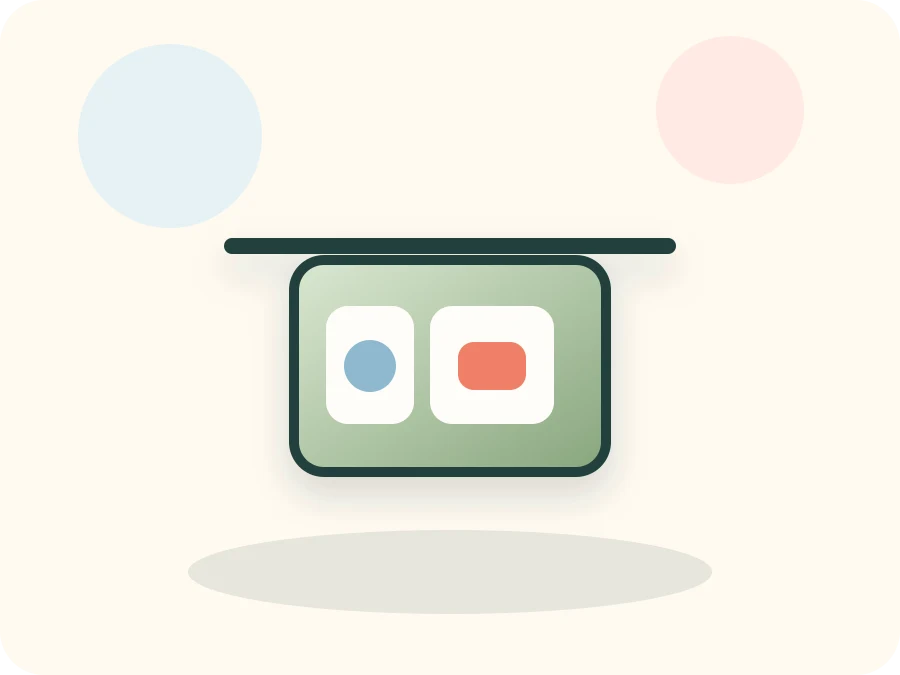
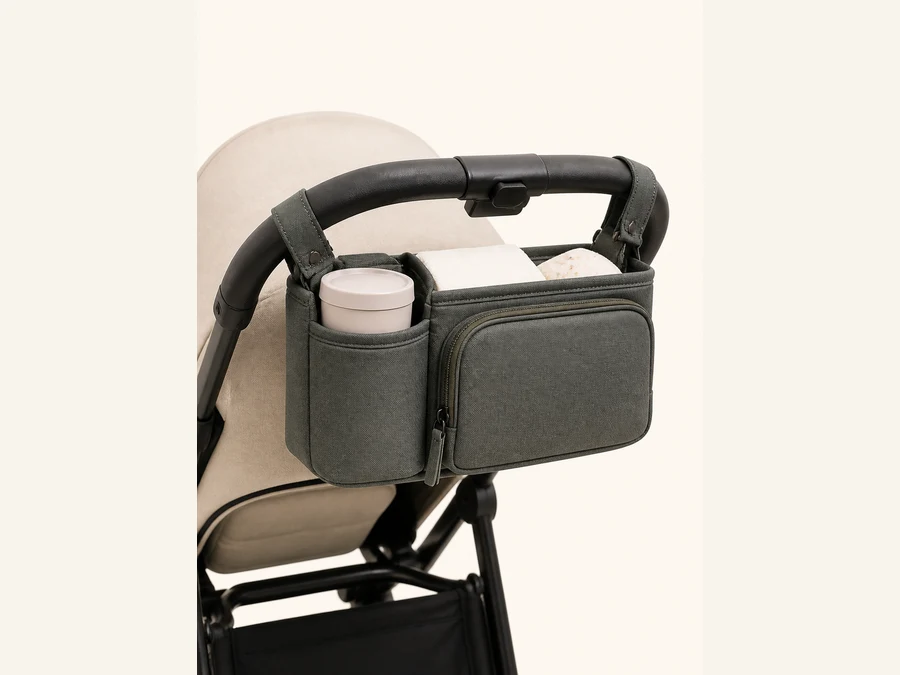
Repair reisen mit kind affiliate products

diff --git a/src/data/travelProducts.ts b/src/data/travelProducts.ts
@@ -147,7 +147,7 @@ export const travelProducts: TravelProduct[] = [
     affiliateUrl: 'https://www.amazon.de/dp/B08T7VKR2R?tag=epic05e-21',
     affiliateStatus: 'ready',
     buttonText: 'Bei Amazon ansehen',
-    image: '/travel-product-images/wickelrucksack-reise-handgepaeck.webp',
+    image: '/travel-product-images/wickelrucksack-handgepaeck.webp',
     imageAlt: 'Wickelrucksack für Reise und Handgepäck',
     ratingText: 'Keine Amazon-Bewertung angezeigt'
   },
@@ -354,10 +354,10 @@ export const travelProducts: TravelProduct[] = [
     benefits: ['Ruhigere Reisezeit', 'Faltbare Modelle sparen Platz', 'Gut für Offline-Unterhaltung'],
     bestFor: 'Flugzeug, Bahn, Auto und Hotelzimmer',
     priceRange: 'Budget bis Mittelklasse',
-    affiliateUrl: AMAZON_AFFILIATE_PLACEHOLDER,
-    affiliateStatus: 'placeholder',
-    buttonText: 'Amazon-Link folgt',
-    image: '/travel-product-images/kopfhoerer-kinder-lautstaerkebegrenzung.webp',
+    affiliateUrl: 'https://www.amazon.de/dp/B08T6H648Z?tag=epic05e-21',
+    affiliateStatus: 'ready',
+    buttonText: 'Bei Amazon ansehen',
+    image: '/travel-product-images/kinderkopfhoerer-lautstaerkebegrenzung.webp',
     imageAlt: 'Kinderkopfhörer mit Lautstärkebegrenzung für Flugreise',
     ratingText: 'Keine Amazon-Bewertung angezeigt'
   },
@@ -417,7 +417,7 @@ export const travelProducts: TravelProduct[] = [
     affiliateUrl: 'https://www.amazon.de/dp/B0DQNBG4F2?tag=epic05e-21',
     affiliateStatus: 'ready',
     buttonText: 'Bei Amazon ansehen',
-    image: '/travel-product-images/packwuerfel-familienurlaub-set.webp',
+    image: '/travel-product-images/packwuerfel-set-familien.webp',
     imageAlt: 'Packwürfel für Familienurlaub und Kinderkleidung',
     ratingText: 'Keine Amazon-Bewertung angezeigt'
   },
@@ -504,10 +504,10 @@ export const travelProducts: TravelProduct[] = [
     benefits: ['Weniger Kleckern im Gepäck', 'Schnell griffbereit', 'Nachfüllbar statt Einwegflaschen'],
     bestFor: 'Kinder im Kindergarten- und Schulalter',
     priceRange: 'Budget bis Mittelklasse',
-    affiliateUrl: AMAZON_AFFILIATE_PLACEHOLDER,
-    affiliateStatus: 'placeholder',
-    buttonText: 'Amazon-Link folgt',
-    image: '/travel-product-images/trinkflasche-kind-auslaufsicher.webp',
+    affiliateUrl: 'https://www.amazon.de/dp/B0C1H3MGJ7?tag=epic05e-21',
+    affiliateStatus: 'ready',
+    buttonText: 'Bei Amazon ansehen',
+    image: '/travel-product-images/auslaufsichere-trinkflasche-kinder.webp',
     imageAlt: 'Auslaufsichere Trinkflasche für Kinder auf Reisen',
     ratingText: 'Keine Amazon-Bewertung angezeigt'
   },
@@ -534,10 +534,10 @@ export const travelProducts: TravelProduct[] = [
     benefits: ['Snacks bleiben sortiert', 'Weniger Verpackungsmüll', 'Gut für Wartezeiten'],
     bestFor: 'Flughafen, Bahn, Auto und Strandtasche',
     priceRange: 'Budget',
-    affiliateUrl: AMAZON_AFFILIATE_PLACEHOLDER,
-    affiliateStatus: 'placeholder',
-    buttonText: 'Amazon-Link folgt',
-    image: '/travel-product-images/snackbox-kind-faecher.webp',
+    affiliateUrl: 'https://www.amazon.de/dp/B07C275388?tag=epic05e-21',
+    affiliateStatus: 'ready',
+    buttonText: 'Bei Amazon ansehen',
+    image: '/travel-product-images/snackbox-mit-faechern.webp',
     imageAlt: 'Snackbox mit Fächern für Kinder auf Reisen',
     ratingText: 'Keine Amazon-Bewertung angezeigt'
   },
@@ -564,10 +564,10 @@ export const travelProducts: TravelProduct[] = [
     benefits: ['Leise Beschäftigung', 'Kein Akku nötig', 'Passt ins Handgepäck'],
     bestFor: 'Kinder ab etwa Kleinkindalter, je nach Produktangabe',
     priceRange: 'Budget',
-    affiliateUrl: AMAZON_AFFILIATE_PLACEHOLDER,
-    affiliateStatus: 'placeholder',
-    buttonText: 'Amazon-Link folgt',
-    image: '/travel-product-images/spielzeug-flugreise-beschaeftigungsbuch.webp',
+    affiliateUrl: 'https://www.amazon.de/dp/3911760019?tag=epic05e-21',
+    affiliateStatus: 'ready',
+    buttonText: 'Bei Amazon ansehen',
+    image: '/travel-product-images/beschaeftigungsbuch-flugreise.webp',
     imageAlt: 'Beschäftigungsbuch als Spielzeug für Flugreise',
     ratingText: 'Keine Amazon-Bewertung angezeigt'
   },
@@ -717,7 +717,7 @@ export const travelProducts: TravelProduct[] = [
     affiliateUrl: 'https://www.amazon.de/dp/B07BGH11MN?tag=epic05e-21',
     affiliateStatus: 'ready',
     buttonText: 'Bei Amazon ansehen',
-    image: '/travel-product-images/dokumententasche-familie-rfid.webp',
+    image: '/travel-product-images/familien-dokumententasche.webp',
     imageAlt: 'Dokumententasche für Familienreise',
     ratingText: 'Keine Amazon-Bewertung angezeigt'
   },